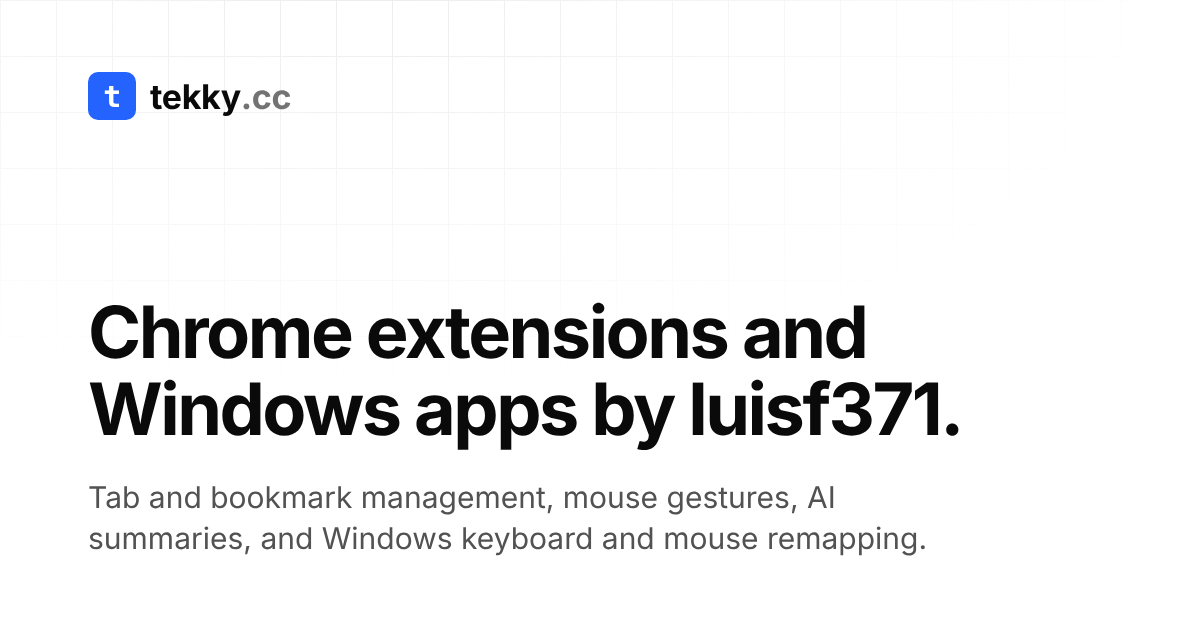
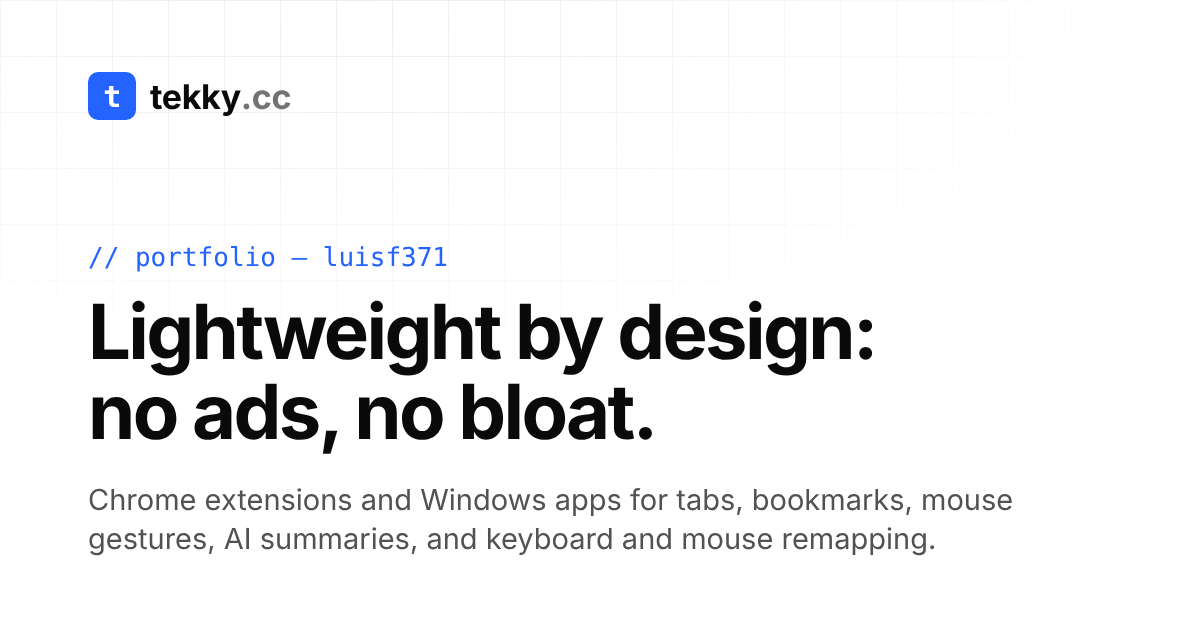
fix(home): remove highlights section and rewrite the intro
- Remove the Highlights section (the featured cards) and every link to it: the nav link on all pages and the footer link on the homepage
- Remove the featured-only fields (featured, highlights, badge, description) from projects.json, along with the home.js and CSS code that rendered them
- Replace the intro with the "// portfolio — luisf371" kicker, a "Lightweight by design: no ads, no bloat." headline, and a one-line description of what the projects do
- Update the meta description, Open Graph and Twitter descriptions, and og-image.png to match the new intro
- Update README and LOCAL_DEVELOPMENT.md for the removed fields

New env vars: none. Migrations: none.

diff --git a/index.html b/index.html
@@ -11,7 +11,7 @@
   <title>tekky.cc — Chrome extensions and Windows apps by luisf371</title>
   <meta name="title" content="tekky.cc — Chrome extensions and Windows apps by luisf371">
   <meta name="description"
-    content="Chrome extensions and Windows apps by luisf371: tab and bookmark management, mouse gestures, AI summaries, and Windows keyboard and mouse remapping.">
+    content="Lightweight Chrome extensions and Windows apps by luisf371, with no ads and no bloat: tab and bookmark tools, mouse gestures, AI summaries, and keyboard and mouse remapping.">
   <meta name="keywords" content="Chrome Extensions, Windows Apps, Productivity, Developer Portfolio, Bookmarks, AI, Tab Management">
   <meta name="author" content="luisf371">
 
@@ -20,7 +20,7 @@
   <meta property="og:url" content="https://tekky.cc/">
   <meta property="og:title" content="tekky.cc — Chrome extensions and Windows apps by luisf371">
   <meta property="og:description"
-    content="Chrome extensions and Windows apps by luisf371: tab and bookmark management, mouse gestures, AI summaries, and Windows keyboard and mouse remapping.">
+    content="Lightweight Chrome extensions and Windows apps by luisf371, with no ads and no bloat: tab and bookmark tools, mouse gestures, AI summaries, and keyboard and mouse remapping.">
   <meta property="og:image" content="https://tekky.cc/assets/images/og-image.png">
 
   <!-- Twitter -->
@@ -28,7 +28,7 @@
   <meta property="twitter:url" content="https://tekky.cc/">
   <meta property="twitter:title" content="tekky.cc — Chrome extensions and Windows apps by luisf371">
   <meta property="twitter:description"
-    content="Chrome extensions and Windows apps by luisf371: tab and bookmark management, mouse gestures, AI summaries, and Windows keyboard and mouse remapping.">
+    content="Lightweight Chrome extensions and Windows apps by luisf371, with no ads and no bloat: tab and bookmark tools, mouse gestures, AI summaries, and keyboard and mouse remapping.">
   <meta property="twitter:image" content="https://tekky.cc/assets/images/og-image.png">
 
   <!-- Favicon -->
@@ -58,7 +58,6 @@
       </button>
 
       <ul class="nav-links">
-        <li><a href="#featured" class="nav-link">Highlights</a></li>
         <li><a href="#projects" class="nav-link">Projects</a></li>
         <li><a href="https://github.com/luisf371" class="nav-link" target="_blank"
             rel="noopener noreferrer">GitHub</a></li>
@@ -91,18 +90,9 @@
     <section class="hero">
       <div class="hero-grid-bg" aria-hidden="true"></div>
       <div class="container hero-inner">
-        <h1 class="hero-title">Chrome extensions and Windows apps by luisf371.</h1>
-        <p class="hero-subtitle">Tab and bookmark management, mouse gestures, AI summaries, and Windows keyboard and mouse remapping.</p>
-      </div>
-    </section>
-
-    <!-- Featured -->
-    <section id="featured" class="section-block section-block--featured" aria-labelledby="featured-title">
-      <div class="container">
-        <h2 class="sr-only" id="featured-title">Featured projects</h2>
-        <div class="featured-grid" id="featured-grid">
-          <!-- rendered from data/projects.json -->
-        </div>
+        <p class="kicker">// portfolio — luisf371</p>
+        <h1 class="hero-title">Lightweight by design: no&nbsp;ads, no&nbsp;bloat.</h1>
+        <p class="hero-subtitle">Chrome extensions and Windows apps for tabs, bookmarks, mouse gestures, AI summaries, and keyboard and mouse remapping.</p>
       </div>
     </section>
 
@@ -156,7 +146,6 @@
         <ul class="footer-links">
           <li><a href="https://github.com/luisf371" class="footer-link" target="_blank"
               rel="noopener noreferrer">GitHub</a></li>
-          <li><a href="#featured" class="footer-link">Highlights</a></li>
           <li><a href="#projects" class="footer-link">Projects</a></li>
         </ul>
         <p class="footer-copyright">&copy; 2026 tekky.cc · Built static, hosted on GitHub Pages. Privacy-focused analytics only.</p>

diff --git a/assets/js/home.js b/assets/js/home.js
@@ -1,10 +1,10 @@
 /**
  * tekky.cc - Homepage project renderer
  *
- * Reads data/projects.json and builds the featured row and the All Projects
- * grid. Everything is created with DOM APIs (no innerHTML with data) so
- * untrusted fields can never inject markup. To change what shows up, edit the
- * JSON — this file rarely needs touching.
+ * Reads data/projects.json and builds the project grid and its filter tabs.
+ * Everything is created with DOM APIs (no innerHTML with data) so untrusted
+ * fields can never inject markup. To change what shows up, edit the JSON —
+ * this file rarely needs touching.
  */
 (function () {
   'use strict';
@@ -45,53 +45,7 @@
     return wrap;
   }
 
-  // --- featured card -------------------------------------------------------
-  function featuredCard(project) {
-    var card = el('article', 'feature-card reveal');
-
-    var media = el('div', 'feature-card-media');
-    var img = el('img');
-    img.src = project.icon;
-    img.alt = project.name + ' icon';
-    img.loading = 'lazy';
-    img.decoding = 'async';
-    img.width = 96;
-    img.height = 96;
-    media.appendChild(img);
-    if (project.badge) media.appendChild(el('span', 'feature-badge', project.badge));
-    card.appendChild(media);
-
-    var body = el('div', 'feature-card-body');
-
-    var head = el('div', 'card-head');
-    head.appendChild(el('span', 'card-cat', metaLine(project)));
-    body.appendChild(head);
-
-    var title = el('h3', 'card-title');
-    var titleLink = el('a', null, project.name);
-    titleLink.href = project.page || project.repo || '#';
-    title.appendChild(titleLink);
-    body.appendChild(title);
-
-    body.appendChild(el('p', 'card-tagline', project.tagline));
-    body.appendChild(el('p', 'card-desc', project.description));
-
-    if (project.highlights && project.highlights.length) {
-      var list = el('ul', 'highlight-list');
-      project.highlights.forEach(function (h) {
-        list.appendChild(el('li', null, h));
-      });
-      body.appendChild(list);
-    }
-
-    body.appendChild(tagRow(project));
-    body.appendChild(actionsRow(project));
-
-    card.appendChild(body);
-    return card;
-  }
-
-  // --- compact grid card ---------------------------------------------------
+  // --- project card --------------------------------------------------------
   function projectCard(project) {
     var card = el('article', 'project-card reveal');
     card.setAttribute('data-category', project.category);
@@ -201,14 +155,6 @@
     var projects = data.projects || [];
     var categories = data.categories || [];
 
-    var featuredGrid = document.getElementById('featured-grid');
-    if (featuredGrid) {
-      var featured = projects.filter(function (p) { return p.featured; });
-      featured.forEach(function (p) { featuredGrid.appendChild(featuredCard(p)); });
-      var featuredSection = document.getElementById('featured');
-      if (featuredSection && !featured.length) featuredSection.hidden = true;
-    }
-
     var grid = document.getElementById('project-grid');
     if (grid) {
       projects.forEach(function (p) { grid.appendChild(projectCard(p)); });
@@ -234,7 +180,7 @@
 
   document.addEventListener('DOMContentLoaded', function () {
     var grid = document.getElementById('project-grid');
-    if (!grid && !document.getElementById('featured-grid')) return; // not the homepage
+    if (!grid) return; // not the homepage
 
     fetch(DATA_URL, { cache: 'no-cache' })
       .then(function (res) {
@@ -244,7 +190,7 @@
       .then(render)
       .catch(function (err) {
         console.error('tekky.cc: could not load projects.json', err);
-        showError(grid || document.getElementById('featured-grid'));
+        showError(grid);
       });
   });
 })();

diff --git a/assets/css/home.css b/assets/css/home.css
@@ -25,13 +25,6 @@
   background-color: var(--bg-secondary);
 }
 
-/* The featured row has no visible heading, so it sits directly under the
-   intro instead of starting a new, separately padded section. */
-.section-block--featured {
-  padding-top: 0;
-  border-top: 0;
-}
-
 .block-head {
   max-width: 640px;
   margin-bottom: var(--space-12);
@@ -62,7 +55,7 @@
 
 .hero {
   position: relative;
-  padding: var(--space-20) 0 var(--space-12);
+  padding: var(--space-20) 0;
   overflow: hidden;
   background-color: var(--bg-primary);
 }
@@ -119,13 +112,6 @@
 
 /* ---- card shared bits -------------------------------------------------- */
 
-.card-head {
-  display: flex;
-  align-items: center;
-  gap: var(--space-3);
-  margin-bottom: var(--space-4);
-}
-
 .card-cat {
   font-family: var(--font-mono);
   font-size: var(--text-xs);
@@ -149,13 +135,6 @@
 .card-title a:hover {
   color: var(--accent);
   text-decoration: none;
-}
-
-.card-tagline {
-  font-size: var(--text-base);
-  font-weight: 600;
-  color: var(--text-primary);
-  margin-bottom: var(--space-2);
 }
 
 .card-desc {
@@ -199,103 +178,6 @@
 
 .card-link:hover::after {
   transform: translateX(3px);
-}
-
-/* ---- featured cards ---------------------------------------------------- */
-
-.featured-grid {
-  display: grid;
-  grid-template-columns: 1fr;
-  gap: var(--space-6);
-}
-
-@media (min-width: 900px) {
-  .featured-grid {
-    grid-template-columns: repeat(2, 1fr);
-  }
-}
-
-.feature-card {
-  display: flex;
-  flex-direction: column;
-  background-color: var(--bg-card);
-  border: 1px solid var(--border);
-  border-radius: var(--radius-lg);
-  overflow: hidden;
-  transition: opacity 0.5s ease, transform var(--transition-slow), box-shadow var(--transition-base), border-color var(--transition-base);
-}
-
-.feature-card:hover {
-  transform: translateY(-4px);
-  box-shadow: var(--shadow-hover);
-  border-color: var(--accent);
-}
-
-.feature-card-media {
-  position: relative;
-  display: flex;
-  align-items: center;
-  justify-content: center;
-  padding: var(--space-12);
-  background:
-    radial-gradient(circle at 50% 40%, var(--accent-light), transparent 70%),
-    var(--bg-secondary);
-  border-bottom: 1px solid var(--border);
-}
-
-.feature-card-media img {
-  width: 96px;
-  height: 96px;
-  border-radius: var(--radius-lg);
-  box-shadow: var(--shadow-md);
-  object-fit: contain;
-}
-
-.feature-badge {
-  position: absolute;
-  top: var(--space-4);
-  right: var(--space-4);
-  font-family: var(--font-mono);
-  font-size: var(--text-xs);
-  font-weight: 600;
-  color: var(--accent);
-  background-color: var(--bg-card);
-  border: 1px solid var(--border);
-  border-radius: var(--radius-sm);
-  padding: 2px 8px;
-}
-
-.feature-card-body {
-  display: flex;
-  flex-direction: column;
-  flex-grow: 1;
-  padding: var(--space-6);
-}
-
-.highlight-list {
-  list-style: none;
-  display: grid;
-  gap: var(--space-3);
-  margin: 0 0 var(--space-6);
-  padding: 0;
-}
-
-.highlight-list li {
-  position: relative;
-  padding-left: var(--space-6);
-  font-size: var(--text-sm);
-  color: var(--text-secondary);
-  line-height: 1.5;
-}
-
-.highlight-list li::before {
-  content: '+';
-  position: absolute;
-  left: 0;
-  top: -1px;
-  font-family: var(--font-mono);
-  font-weight: 700;
-  color: var(--accent);
 }
 
 /* ---- filter bar -------------------------------------------------------- */

diff --git a/assets/js/main.js b/assets/js/main.js
@@ -131,7 +131,7 @@ document.addEventListener('DOMContentLoaded', function() {
   // Highlight current page in navigation
   const currentPath = window.location.pathname;
   document.querySelectorAll('.nav-link').forEach(link => {
-    // In-page anchors (#featured, #projects, ...) share the page's path, so
+    // In-page anchors (#projects, #contact, ...) share the page's path, so
     // matching on path alone would light up every one of them at once.
     const linkPath = new URL(link.href).pathname;
     if (linkPath === currentPath && !link.hash) {

diff --git a/apps/swinshortcuts.html b/apps/swinshortcuts.html
@@ -27,7 +27,6 @@
                 <span class="nav-toggle-icon"></span>
             </button>
             <ul class="nav-links">
-                <li><a href="../#featured" class="nav-link">Highlights</a></li>
                 <li><a href="../#projects" class="nav-link">Projects</a></li>
                 <li><a href="https://github.com/luisf371" class="nav-link" target="_blank"
                         rel="noopener noreferrer">GitHub</a></li>

diff --git a/blog/index.html b/blog/index.html
@@ -42,7 +42,6 @@
         <span class="nav-toggle-icon"></span>
       </button>
       <ul class="nav-links">
-        <li><a href="../#featured" class="nav-link">Highlights</a></li>
         <li><a href="../#projects" class="nav-link">Projects</a></li>
         <li><a href="../blog/" class="nav-link active">Blog</a></li>
         <li><a href="https://github.com/luisf371" class="nav-link" target="_blank"

diff --git a/blog/welcome-to-tekky-blog.html b/blog/welcome-to-tekky-blog.html
@@ -43,7 +43,6 @@
         <span class="nav-toggle-icon"></span>
       </button>
       <ul class="nav-links">
-        <li><a href="../#featured" class="nav-link">Highlights</a></li>
         <li><a href="../#projects" class="nav-link">Projects</a></li>
         <li><a href="../blog/" class="nav-link active">Blog</a></li>
         <li><a href="https://github.com/luisf371" class="nav-link" target="_blank"

diff --git a/extensions/sbookmarkcleaner.html b/extensions/sbookmarkcleaner.html
@@ -27,7 +27,6 @@
         <span class="nav-toggle-icon"></span>
       </button>
       <ul class="nav-links">
-        <li><a href="../#featured" class="nav-link">Highlights</a></li>
         <li><a href="../#projects" class="nav-link">Projects</a></li>
         <li><a href="https://github.com/luisf371" class="nav-link" target="_blank"
             rel="noopener noreferrer">GitHub</a></li>

diff --git a/extensions/sgestures.html b/extensions/sgestures.html
@@ -27,7 +27,6 @@
         <span class="nav-toggle-icon"></span>
       </button>
       <ul class="nav-links">
-        <li><a href="../#featured" class="nav-link">Highlights</a></li>
         <li><a href="../#projects" class="nav-link">Projects</a></li>
         <li><a href="https://github.com/luisf371" class="nav-link" target="_blank"
             rel="noopener noreferrer">GitHub</a></li>

diff --git a/extensions/sneatbookmarks.html b/extensions/sneatbookmarks.html
@@ -28,7 +28,6 @@
         <span class="nav-toggle-icon"></span>
       </button>
       <ul class="nav-links">
-        <li><a href="../#featured" class="nav-link">Highlights</a></li>
         <li><a href="../#projects" class="nav-link">Projects</a></li>
         <li><a href="https://github.com/luisf371" class="nav-link" target="_blank"
             rel="noopener noreferrer">GitHub</a></li>

diff --git a/extensions/stabcontrol.html b/extensions/stabcontrol.html
@@ -27,7 +27,6 @@
         <span class="nav-toggle-icon"></span>
       </button>
       <ul class="nav-links">
-        <li><a href="../#featured" class="nav-link">Highlights</a></li>
         <li><a href="../#projects" class="nav-link">Projects</a></li>
         <li><a href="https://github.com/luisf371" class="nav-link" target="_blank"
             rel="noopener noreferrer">GitHub</a></li>

diff --git a/extensions/sundoclose.html b/extensions/sundoclose.html
@@ -27,7 +27,6 @@
         <span class="nav-toggle-icon"></span>
       </button>
       <ul class="nav-links">
-        <li><a href="../#featured" class="nav-link">Highlights</a></li>
         <li><a href="../#projects" class="nav-link">Projects</a></li>
         <li><a href="https://github.com/luisf371" class="nav-link" target="_blank"
             rel="noopener noreferrer">GitHub</a></li>
